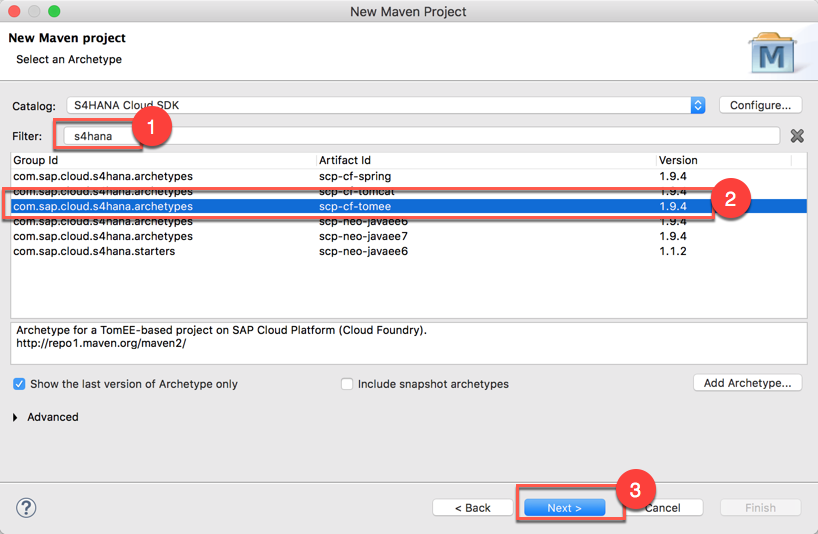
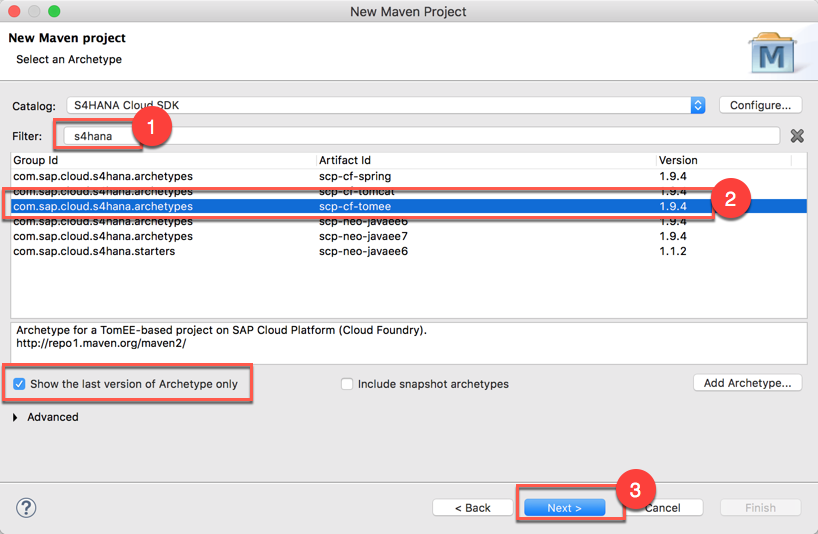
Modified E2_2 to allow selecting older versions

Changed region(s): [[0.0, 0.6592, 0.3362, 0.779]]

diff --git a/Day2/Exercise_22/Exercise_22.md b/Day2/Exercise_22/Exercise_22.md
@@ -74,7 +74,10 @@ In this chapter you are going to create your first project using the S/4HANA Clo
 1. A new remote repository has been added, click on **Apply and Close**   
 	![](images/15.png)
 
-1. Type the text "**s4hana**" in the filter box and select the **scp-cf-tomee** artifact, then click **Next**   
+1. Type the text "**s4hana**" in the filter box and select the **scp-cf-tomee** artifact with version **1.9.4**, then click **Next**
+
+	>NOTE: In case you don't see the version 1.9.4, simply disable the checkbox **Show the last version of Archetype only**  
+
 	![](images/16.png)
 
 1. Set the following values replacing **xx** with the identifier received by your instructor and click **Finish**  
